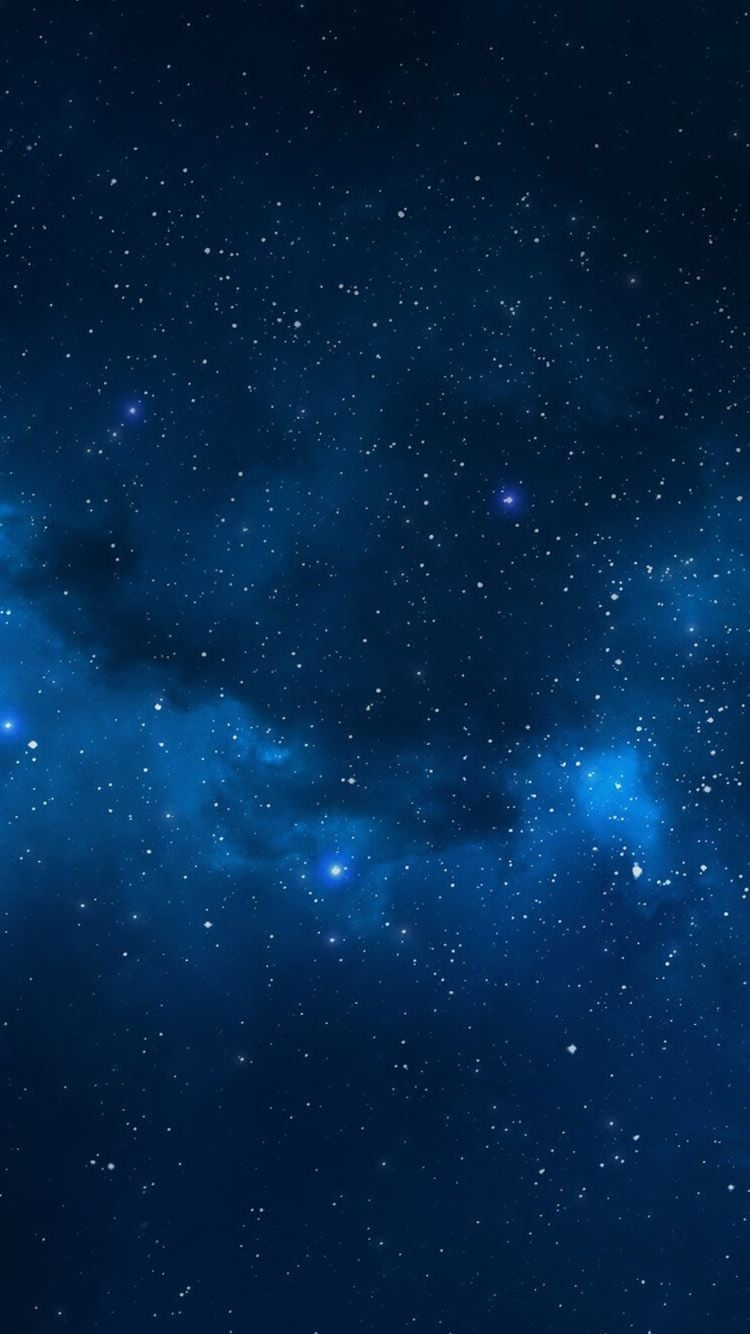
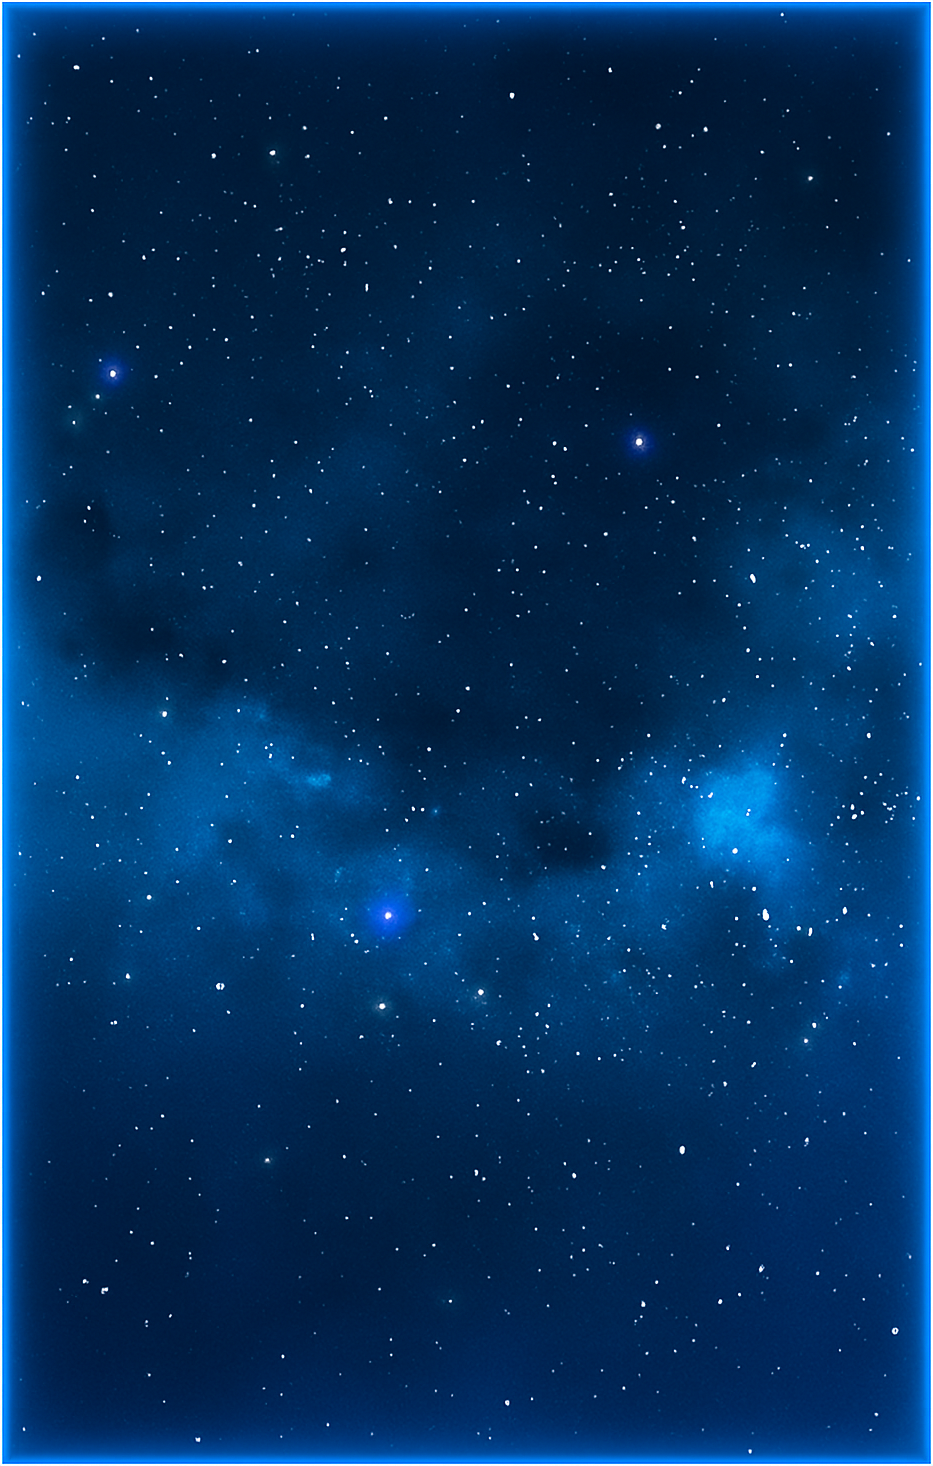
fix: sửa các ảnh và brick

diff --git a/src/main/java/Managers/Renderer.java b/src/main/java/Managers/Renderer.java
@@ -18,15 +18,16 @@ import javafx.scene.text.Text;
 
 public class Renderer {
 
-    private Image backgroundMenu, backgroundPlaying, ballImg, paddleImg, backgroundScreen;
+    private Image backgroundMenu, backgroundPlaying, ballImg, paddleImg, backgroundScreen, fireBallImg;
     private Menu menu;
 
     public Renderer() {
 
         backgroundPlaying = new Image("file:assets/background/Background_Play.png"); // Nền khi chơi game
-        backgroundScreen = new Image("file:assets/background/background_screen2.png"); // Nền chung cho tất cả các trạng thái
+        backgroundScreen = new Image("file:assets/background/background_screen.png"); // Nền chung cho tất cả các trạng thái
         backgroundMenu = new Image("file:assets/background/Background_Menu.png"); // Nền menu
-        ballImg = new Image("file:assets/ball/normal_ball.png"); // Hình ảnh quả bóng
+        ballImg = new Image("file:assets/ball/ball_normal.png"); // Hình ảnh quả bóng
+        fireBallImg = new Image("file:assets/ball/ball_fire.png"); // hình ảnh quả bóng lửa khi ăn power up
         paddleImg = new Image("file:assets/paddle/paddle.png"); // Hình ảnh thanh trượt
         menu = new Menu(); // Khởi tạo menu
     }
@@ -119,7 +120,11 @@ public class Renderer {
         Paddle paddle = gameManager.getPaddle();
         gc.drawImage(paddleImg, paddle.getX(), paddle.getY(), paddle.getWidth(), paddle.getHeight());
         for (Ball b : gameManager.getBalls()) {
-            gc.drawImage(ballImg, b.getX(), b.getY(), b.getWidth(), b.getHeight());
+            if (b.isFireBall()) {
+                gc.drawImage(fireBallImg, b.getX(), b.getY(), b.getWidth(), b.getHeight());
+            } else {
+                gc.drawImage(ballImg, b.getX(), b.getY(), b.getWidth(), b.getHeight());
+            }
         }
 
         for (PowerUp p : gameManager.getPowerUps()) {

diff --git a/src/main/java/Managers/GameConfig/GameConfig.java b/src/main/java/Managers/GameConfig/GameConfig.java
@@ -10,7 +10,7 @@ public class GameConfig {
     public static final int SCREEN_Y = 0;
     // KÍCH THƯỚC MÀN HÌNH
     public static final int SCREEN_WIDTH = 1400;
-    public static final int SCREEN_HEIGHT = 800;
+    public static final int SCREEN_HEIGHT = 801;
     // KÍCH THƯỚC VÀ TỐC ĐỘ PADDLE
     public static final int PADDLE_WIDTH = 120;
     public static final int PADDLE_HEIGHT = 20;

diff --git a/src/main/java/items/factory/TitanBrick.java b/src/main/java/items/factory/TitanBrick.java
@@ -8,6 +8,6 @@ public class TitanBrick implements FactoryBrick {
     @Override
     public Brick createBrick(int x, int y) {
         Image brickImg = new Image("file:assets/bricks/brick5.png");
-        return new Brick(brickImg, x, y, GameConfig.BRICK_WIDTH, GameConfig.BRICK_HEIGHT, 7);
+        return new Brick(brickImg, x, y, GameConfig.BRICK_WIDTH, GameConfig.BRICK_HEIGHT, 5);
     }
 }

diff --git a/src/main/java/Managers/GameManager.java b/src/main/java/Managers/GameManager.java
@@ -67,7 +67,6 @@ public class GameManager {
             System.err.println("Không load được map, game sẽ không bắt đầu!");
             return;
         }
-
         balls.clear();
         float ballX = paddle.getX() + paddle.getWidth() / 2 - GameConfig.BALL_WIDTH / 2;
         float ballY = paddle.getY() - GameConfig.BALL_HEIGHT;

diff --git a/src/main/java/items/Brick.java b/src/main/java/items/Brick.java
@@ -12,7 +12,7 @@ public class Brick extends GameObject {
     private Animation brick_animation;
     private int frameIndex = 0;
     private long lastFrameTime = 0;
-    private long frameDelay = 10000000 ;
+    private long frameDelay = 100_000_00 ;
 
     private Image brickImg;
     private int hitPoints;
